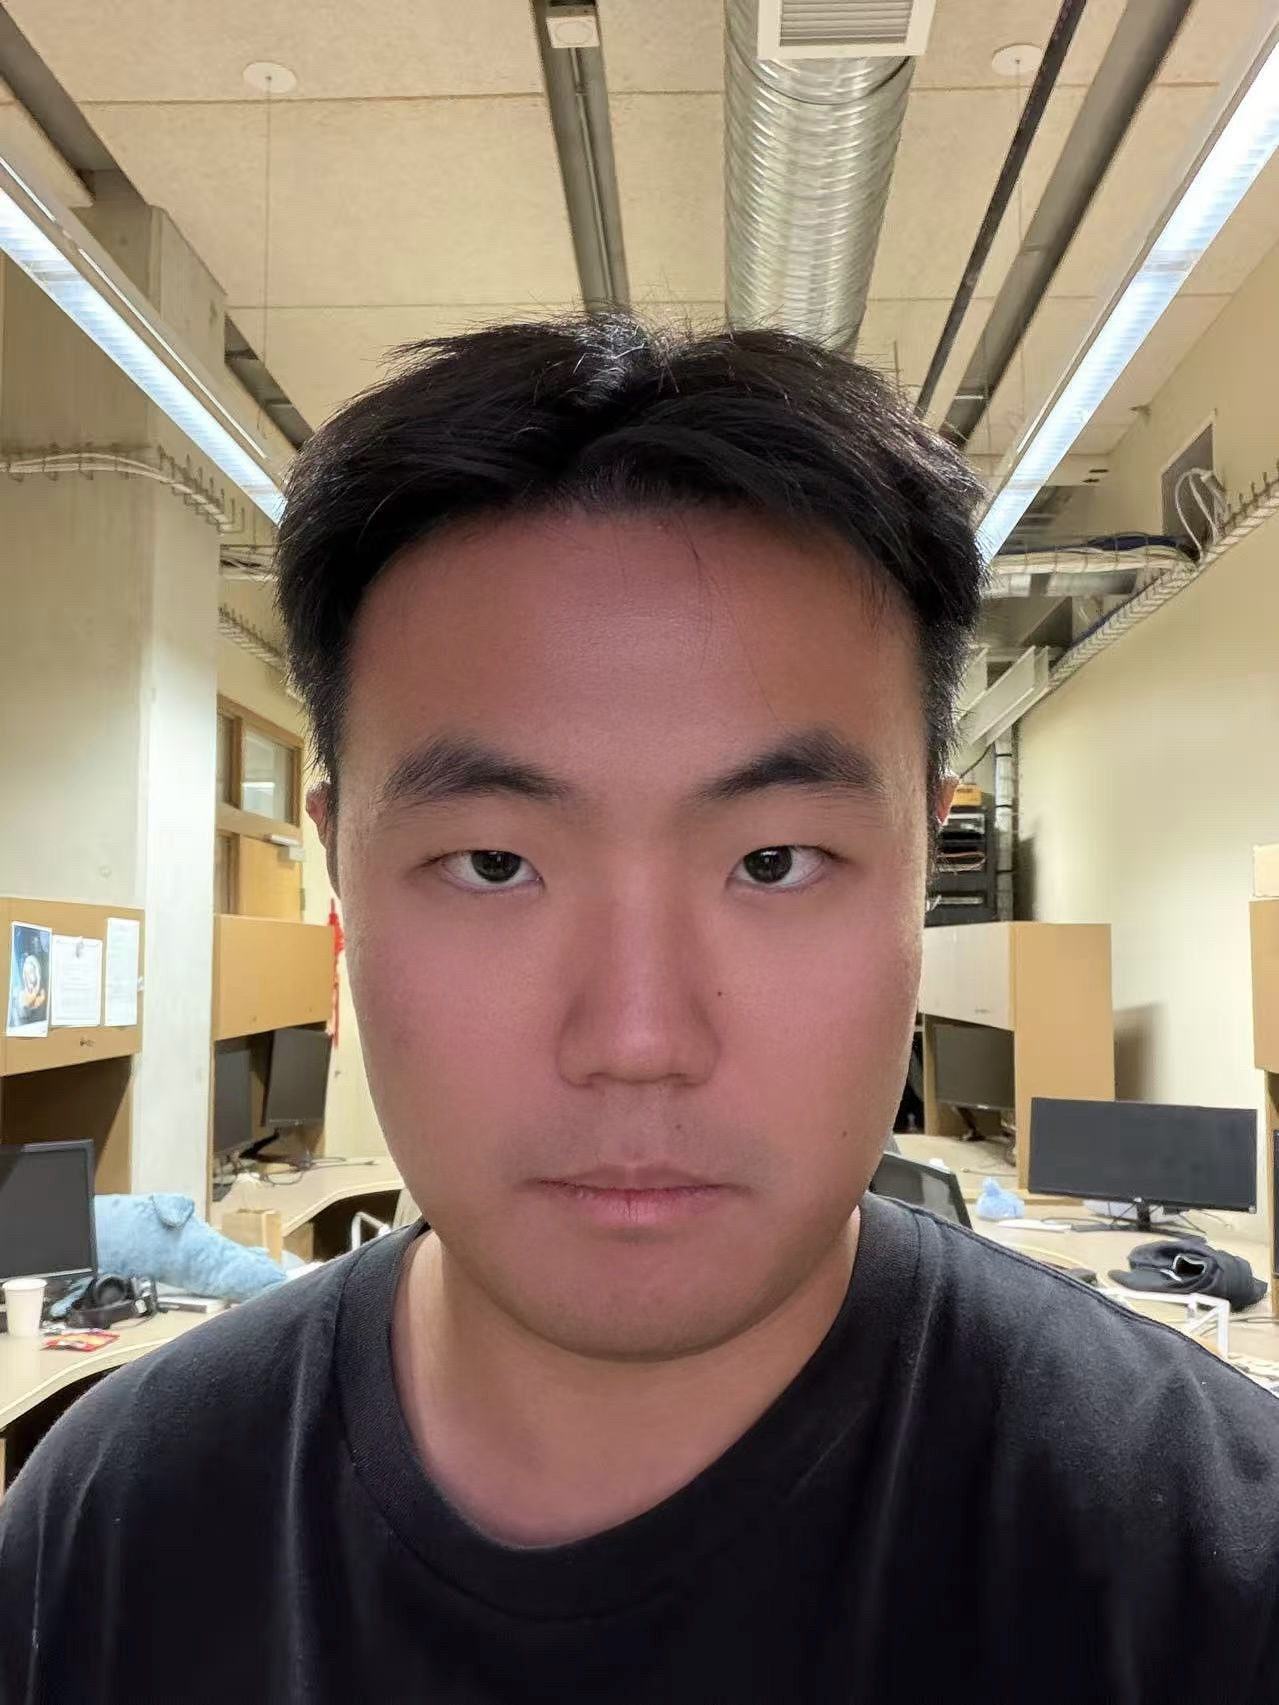
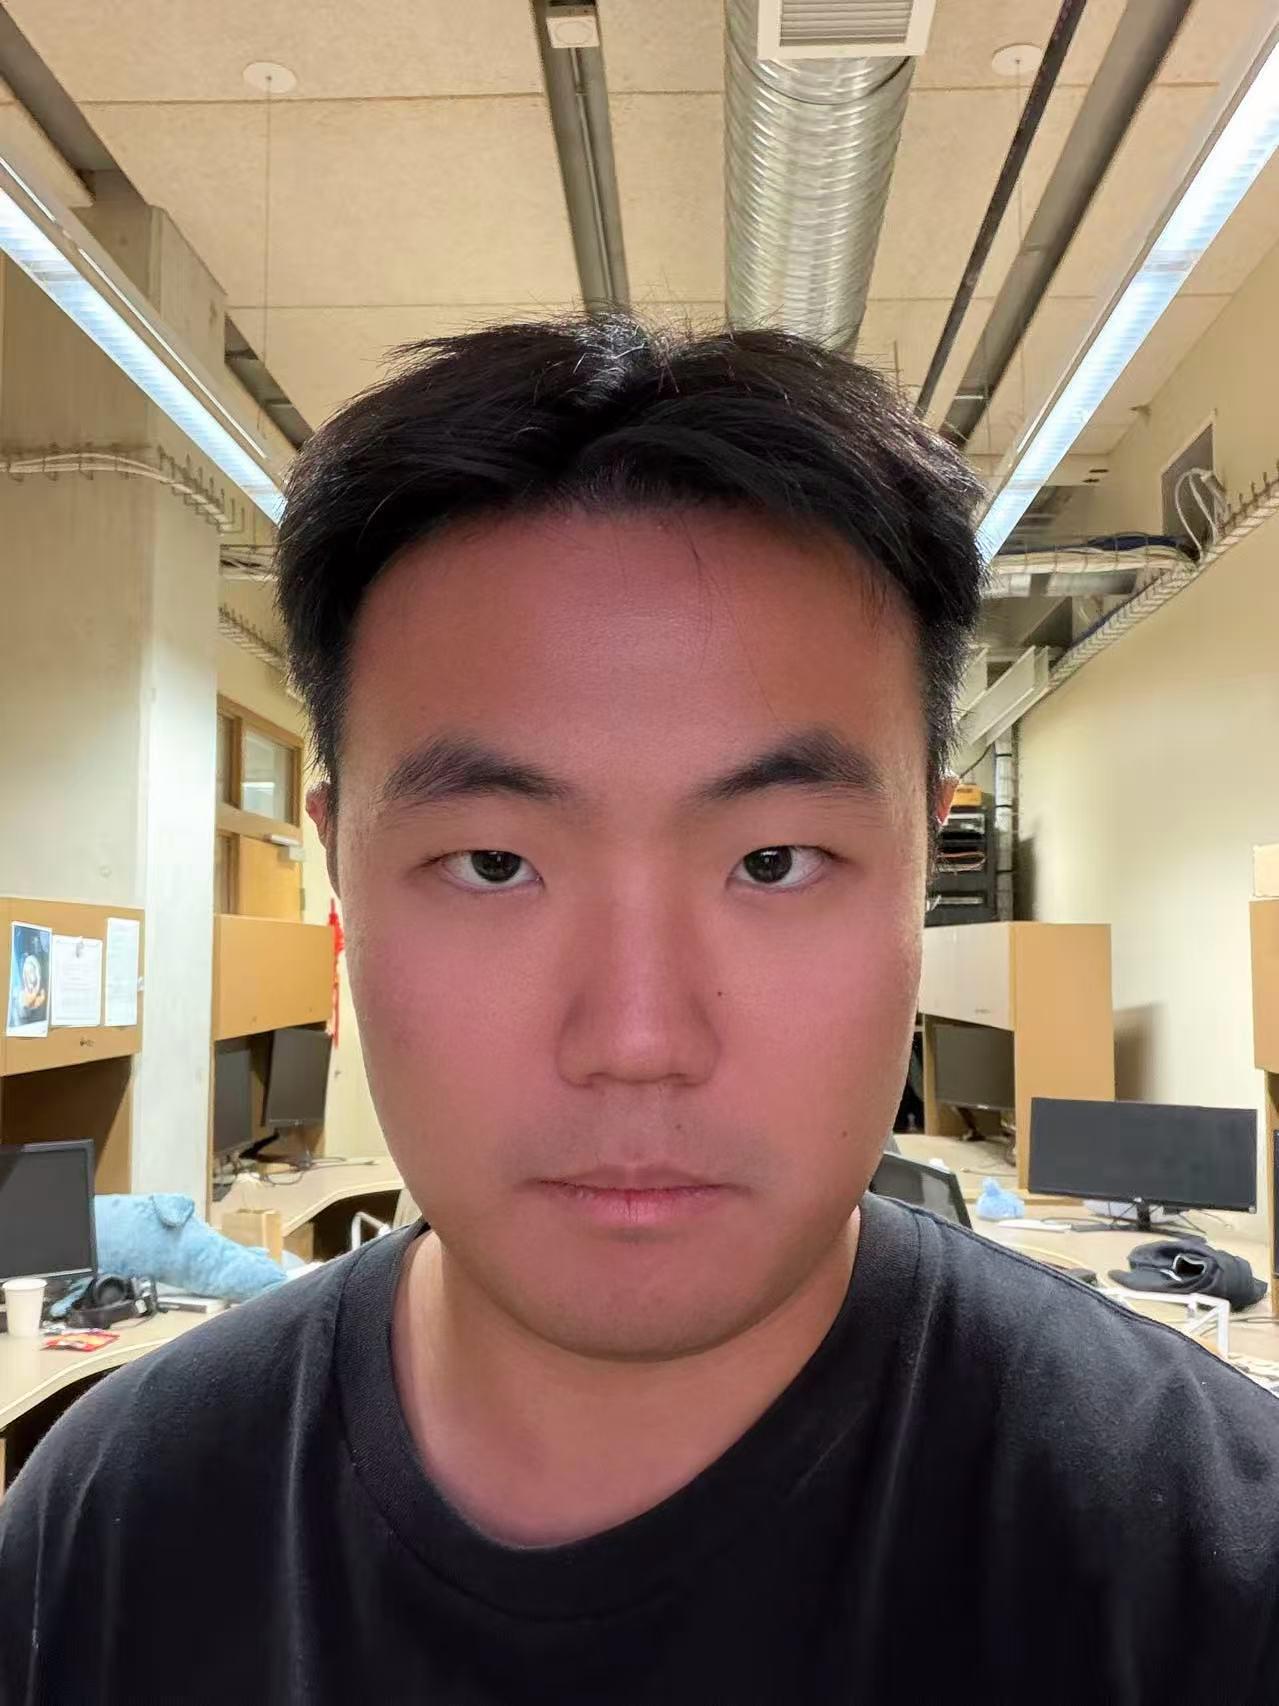
update

diff --git a/_includes/author-profile.html b/_includes/author-profile.html
@@ -7,8 +7,11 @@
 <div itemscope itemtype="http://schema.org/Person">
 
   <div class="author__avatar">
+    {% assign avatar_first_character = author.avatar | slice: 0 %}
     {% if author.avatar contains "://" %}
     	<img src="{{ author.avatar }}" alt="{{ author.name }}"  fetchpriority="high" />
+    {% elsif avatar_first_character == "/" %}
+    	<img src="{{ author.avatar | prepend: base_path }}" class="author__avatar" alt="{{ author.name }}"  fetchpriority="high" />
     {% else %}
     	<img src="{{ author.avatar | prepend: "/images/" | prepend: base_path }}" class="author__avatar" alt="{{ author.name }}"  fetchpriority="high" />
     {% endif %}
